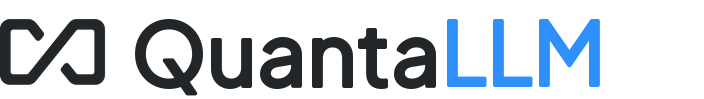
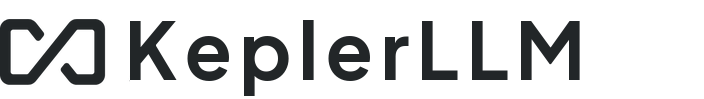
rebrand: generate deterministic KeplerLLM wordmark pixels
Same AnythingLLM pattern (infinity mark + monochrome NameLLM) with text swapped to KeplerLLM, rendered with the repo's own Plus Jakarta Sans Bold. Geometry calibrated from upstream assets (704x99 canvas, icon x0-105, text x130, dark #22262 8). Generator: tools/generate-kepler-wordmark.py (deterministic, no timestamps).

Changed region(s): [[0.1875, 0.1818, 0.875, 0.9697]]

diff --git a/tools/generate-kepler-wordmark.py b/tools/generate-kepler-wordmark.py
@@ -1,0 +1,178 @@
+#!/usr/bin/env python3
+"""Deterministic KeplerLLM wordmark generator.
+
+Reproduces the AnythingLLM wordmark pattern (infinity mark + NameLLM,
+monochrome) with the text swapped to KeplerLLM, using the repo's own
+Plus Jakarta Sans variable font.
+
+Reference geometry is measured from the last upstream wordmark assets
+(git show 54cad69d^:frontend/public/anything-llm-dark.png, 704x99):
+  - canvas 704x99, icon occupies x 0..105, 24px gap, text starts x=130
+  - text bbox y 20..97 (cap height ~77px incl. descenders of 'y'/'g')
+  - dark variant color (34,38,40); light variant pure white
+  - 2x wordmark (open-computer) is exactly 1396x198, same layout scaled 2x
+
+Calibration: at PlusJakartaSans Bold size 78 the reference string
+'AnythingLLM' renders 558px wide; TRACK_1X pads it to exactly 568px
+(the original text width). The same size/tracking renders 'KeplerLLM'
+proportionally narrower (~same footprint as the previous Kepler wordmark,
+ending near x=600 on the 704px canvas, which keeps existing CSS layout).
+
+Outputs (3 distinct pixel contents, copied to all 11 branded paths):
+  - dark text  -> *-dark.png, *-invert.png
+  - white text -> *-light.png, *.png (plain)
+  - white text 2x -> keplerllm-wordmark.png
+
+Icon-only assets (kepler-llm-icon.png, kepler-llm-infinity.png) contain no
+text and are intentionally left untouched.
+
+Determinism: no timestamps, no randomness; PNG saved with default
+encoder settings. Re-running on the same Pillow version yields
+byte-identical files (hashes printed at the end).
+
+Requires: Pillow (pip install pillow). Run from repo root:
+  python3 tools/generate-kepler-wordmark.py
+"""
+
+import hashlib
+import subprocess
+import sys
+from pathlib import Path
+
+from PIL import Image, ImageDraw, ImageFont
+
+ROOT = Path(__file__).resolve().parent.parent
+FONT_PATH = ROOT / "frontend/public/fonts/PlusJakartaSans.ttf"
+REF_COMMIT = "54cad69d^"  # last upstream (AnythingLLM) wordmark assets
+
+TEXT = "KeplerLLM"
+REFERENCE_TEXT = "AnythingLLM"  # used only to calibrate tracking
+WEIGHT = 700  # Bold
+SIZE_1X = 78
+TEXT_X_1X = 130
+TEXT_Y_1X = 20
+CANVAS_1X = (704, 99)
+SCALE_2X = 2
+
+DARK = (34, 38, 40, 255)
+WHITE = (255, 255, 255, 255)
+
+# Path groups share identical pixels (matches pre-existing layout).
+DARK_TEXT_PATHS = [
+    "frontend/public/kepler-llm-dark.png",
+    "frontend/src/media/logo/kepler-llm-dark.png",
+    "server/storage/assets/kepler-llm-invert.png",
+    "server/utils/agents/aibitat/plugins/create-files/assets/kepler-llm-invert.png",
+]
+LIGHT_TEXT_PATHS = [
+    "frontend/public/kepler-llm-light.png",
+    "frontend/src/media/logo/kepler-llm.png",
+    "server/storage/assets/kepler-llm.png",
+    "server/utils/agents/aibitat/plugins/create-files/assets/kepler-llm.png",
+]
+WORDMARK_2X_PATH = "open-computer/services/public/keplerllm-wordmark.png"
+
+
+def git_show_to_image(ref_path: str) -> Image.Image:
+    data = subprocess.check_output(
+        ["git", "-C", str(ROOT), "show", f"{REF_COMMIT}:{ref_path}"]
+    )
+    import io
+
+    return Image.open(io.BytesIO(data)).convert("RGBA")
+
+
+def load_font(size: int) -> ImageFont.FreeTypeFont:
+    font = ImageFont.truetype(str(FONT_PATH), size)
+    font.set_variation_by_axes([WEIGHT])
+    return font
+
+
+def calibrate_tracking(font: ImageFont.FreeTypeFont, target_width: int) -> float:
+    widths = [font.getlength(c) for c in REFERENCE_TEXT]
+    return (target_width - sum(widths)) / (len(REFERENCE_TEXT) - 1)
+
+
+def render_text(text: str, font: ImageFont.FreeTypeFont, track: float,
+                color: tuple) -> Image.Image:
+    widths = [font.getlength(c) for c in text]
+    total = int(round(sum(widths) + track * (len(text) - 1)))
+    ascent, descent = font.getmetrics()
+    img = Image.new("RGBA", (total + 40, ascent + descent + 40), (0, 0, 0, 0))
+    draw = ImageDraw.Draw(img)
+    x = 20.0
+    for ch, w in zip(text, widths):
+        draw.text((x, 20), ch, font=font, fill=color)
+        x += w + track
+    bbox = img.getbbox()
+    assert bbox, "rendered text is empty"
+    return img.crop(bbox)
+
+
+def recolor_alpha(alpha_source: Image.Image, color: tuple) -> Image.Image:
+    """Keep the reference alpha channel, paint it with a flat color."""
+    solid = Image.new("RGBA", alpha_source.size, color)
+    solid.putalpha(alpha_source.split()[3])
+    return solid
+
+
+def build_wordmark(ref_dark: Image.Image, ref_2x: Image.Image,
+                   color: tuple, scale: int) -> Image.Image:
+    if scale == 1:
+        ref, size, tx, ty = ref_dark, SIZE_1X, TEXT_X_1X, TEXT_Y_1X
+        canvas_size = CANVAS_1X
+        target_width = 568  # measured original 'AnythingLLM' text width
+        icon = ref.crop((0, 0, 130, ref.size[1]))
+    else:
+        # NOTE: the 2x asset is not exactly 2x the 1x canvas (1396 vs 1408
+        # wide); geometry below is measured from the upstream 2x asset.
+        ref, size = ref_2x, SIZE_1X * SCALE_2X
+        tx, ty = 260, 42
+        canvas_size = (1396, 198)
+        target_width = 1123  # measured original 'AnythingLLM' text width
+        icon = ref.crop((0, 0, 260, ref.size[1]))
+    font = load_font(size)
+    track = calibrate_tracking(font, target_width)
+    text = render_text(TEXT, font, track, color)
+    canvas = Image.new("RGBA", canvas_size, (0, 0, 0, 0))
+    canvas.alpha_composite(recolor_alpha(icon, color), (0, 0))
+    canvas.alpha_composite(text, (tx, ty))
+    return canvas
+
+
+def main() -> int:
+    ref_dark = git_show_to_image("frontend/public/anything-llm-dark.png")
+    ref_2x = git_show_to_image(
+        "open-computer/services/public/anythingllm-wordmark.png")
+    assert ref_dark.size == CANVAS_1X, ref_dark.size
+    assert ref_2x.size == (1396, 198), ref_2x.size
+
+    # Sanity: reference text region must match the documented geometry.
+    text_area = ref_dark.crop((130, 0, 704, 99))
+    assert text_area.getbbox() == (0, 20, 568, 97), text_area.getbbox()
+
+    dark = build_wordmark(ref_dark, ref_2x, DARK, scale=1)
+    light = build_wordmark(ref_dark, ref_2x, WHITE, scale=1)
+    wordmark = build_wordmark(ref_dark, ref_2x, WHITE, scale=SCALE_2X)
+
+    assert dark.size == CANVAS_1X and light.size == CANVAS_1X
+    assert wordmark.size == (1396, 198), wordmark.size
+    # KeplerLLM (9 chars) renders proportionally narrower than the 11-char
+    # reference; its right edge must land near x=600 (bbox is crop-relative).
+    right = light.crop((130, 0, 704, 99)).getbbox()[2]
+    assert 430 <= right <= 510, right
+
+    for rel in DARK_TEXT_PATHS:
+        dark.save(ROOT / rel)
+    for rel in LIGHT_TEXT_PATHS:
+        light.save(ROOT / rel)
+    wordmark.save(ROOT / WORDMARK_2X_PATH)
+
+    for rel in DARK_TEXT_PATHS + LIGHT_TEXT_PATHS + [WORDMARK_2X_PATH]:
+        data = (ROOT / rel).read_bytes()
+        print(f"{hashlib.md5(data).hexdigest()}  {rel}")
+    return 0
+
+
+if __name__ == "__main__":
+    sys.exit(main())
